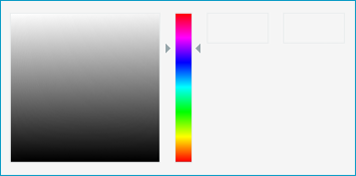
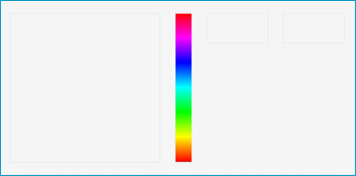
Fixed a problem with the new pictures and centered the hue selector

diff --git a/client/css/jquery.colorpicker.css b/client/css/jquery.colorpicker.css
@@ -50,7 +50,7 @@
 	overflow: hidden;
 	background: url(../images/colorpicker/colorpicker_indic.gif) left top;
 	margin: -4px 0 0 0;
-	left: 0px;
+	left: -5px;
 }
 .colorpicker_new_color {
 	position: absolute;
